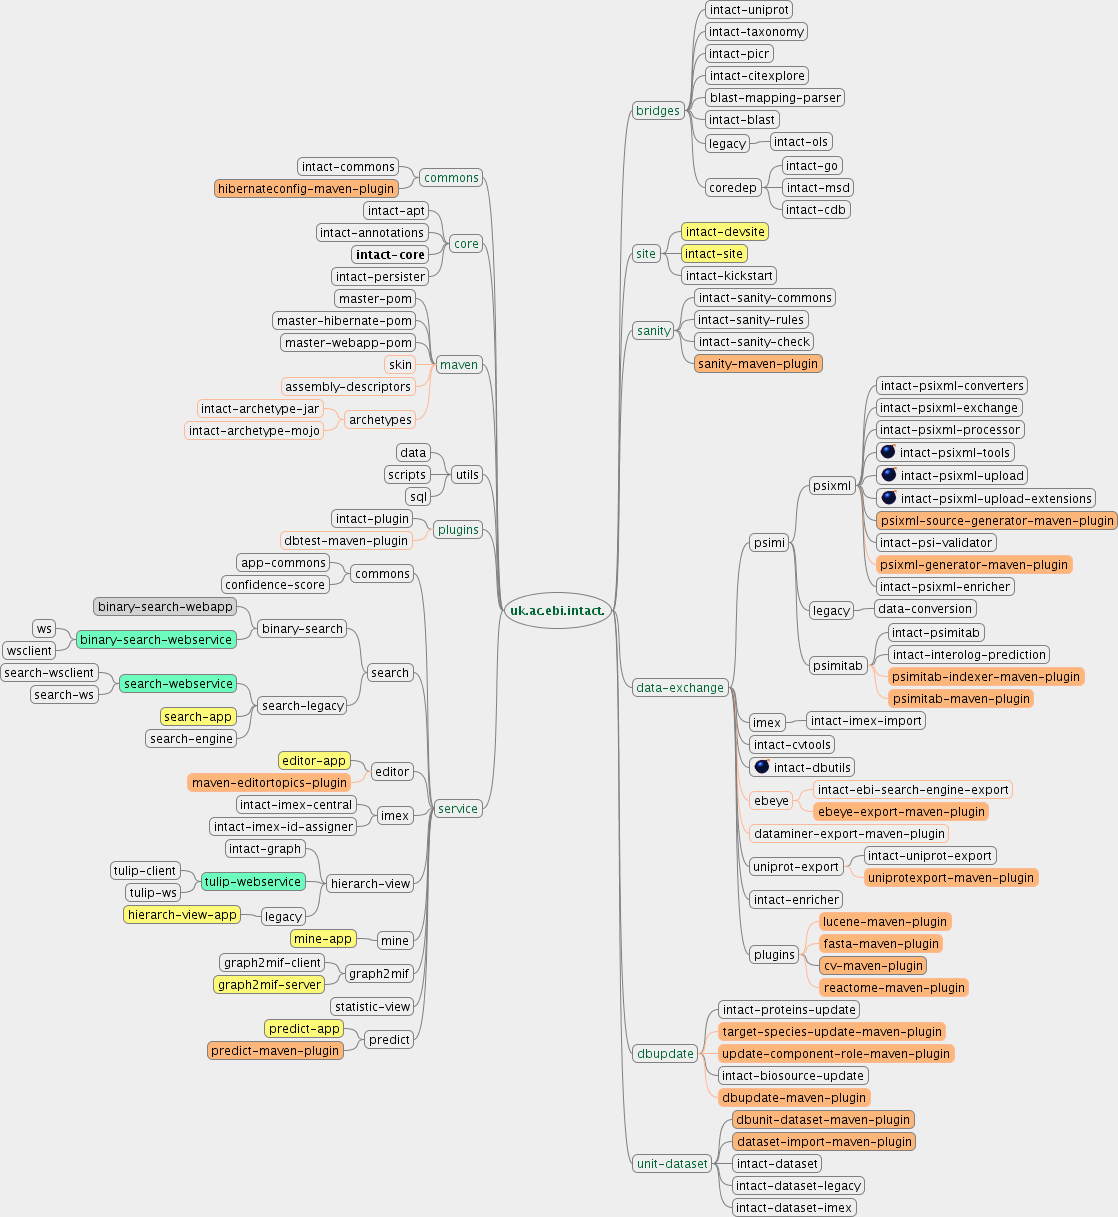
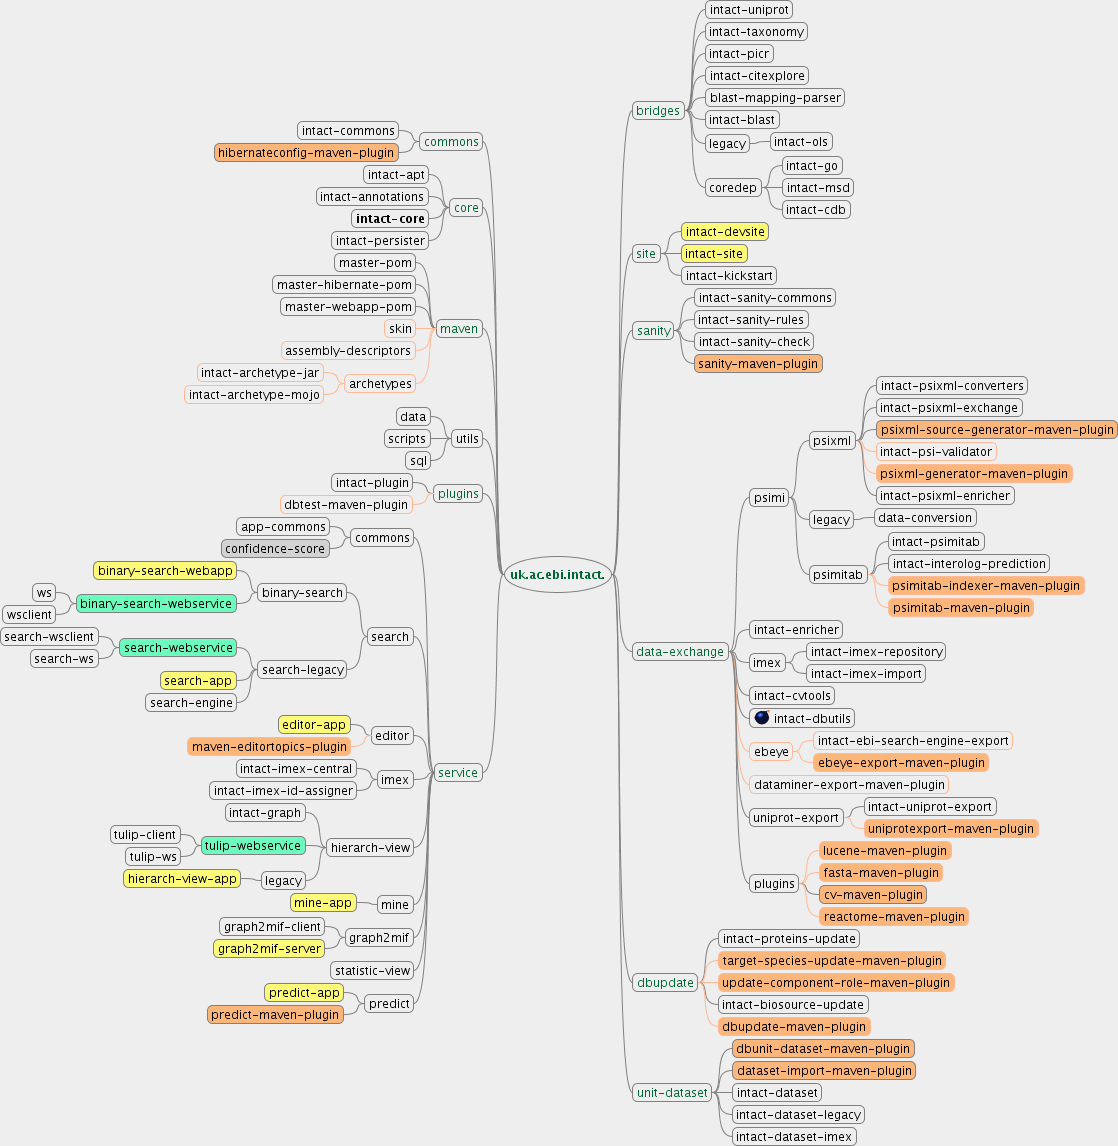
Updated mind map

Changed region(s): [[0.5474, 0.0, 1.0, 1.0], [0.0, 0.0916, 0.4562, 0.9162], [0.4562, 0.4887, 0.5474, 0.5192]]

diff --git a/repo/current/intact-modules.mm b/repo/current/intact-modules.mm
@@ -73,18 +73,10 @@
 <font NAME="SansSerif" SIZE="12"/>
 <node CREATED="1181220016126" ID="Freemind_Link_339196956" MODIFIED="1181231030330" TEXT="intact-psixml-converters"/>
 <node CREATED="1181220019649" ID="Freemind_Link_1793249273" MODIFIED="1181231030328" TEXT="intact-psixml-exchange"/>
-<node CREATED="1181220025324" ID="Freemind_Link_1813445305" MODIFIED="1181231030325" TEXT="intact-psixml-processor"/>
-<node CREATED="1181220028507" ID="Freemind_Link_313334292" MODIFIED="1185889434714" TEXT="intact-psixml-tools">
-<icon BUILTIN="clanbomber"/>
-</node>
-<node CREATED="1181220030659" ID="Freemind_Link_1907791552" MODIFIED="1185889439938" TEXT="intact-psixml-upload">
-<icon BUILTIN="clanbomber"/>
-</node>
-<node CREATED="1181220032989" ID="Freemind_Link_460551093" MODIFIED="1185889443513" TEXT="intact-psixml-upload-extensions">
-<icon BUILTIN="clanbomber"/>
-</node>
 <node BACKGROUND_COLOR="#fdb679" CREATED="1181219997687" ID="_" MODIFIED="1181231461388" TEXT="psixml-source-generator-maven-plugin&#xa;"/>
-<node CREATED="1181220210838" ID="Freemind_Link_692197070" MODIFIED="1185889421767" TEXT="intact-psi-validator"/>
+<node CREATED="1181220210838" ID="Freemind_Link_692197070" MODIFIED="1192434565745" TEXT="intact-psi-validator">
+<edge COLOR="#ffb894" WIDTH="thin"/>
+</node>
 <node BACKGROUND_COLOR="#fdb679" CREATED="1181220161503" ID="Freemind_Link_165922696" MODIFIED="1181307055010" TEXT="psixml-generator-maven-plugin">
 <edge COLOR="#ffb894" WIDTH="thin"/>
 </node>
@@ -111,7 +103,9 @@
 </node>
 </node>
 </node>
+<node CREATED="1184577886167" ID="Freemind_Link_1681646863" MODIFIED="1184577921153" TEXT="intact-enricher"/>
 <node CREATED="1185793253542" ID="Freemind_Link_1906959819" MODIFIED="1185793256230" TEXT="imex">
+<node CREATED="1192434624315" ID="Freemind_Link_750236080" MODIFIED="1192434631126" TEXT="intact-imex-repository"/>
 <node CREATED="1185793304604" ID="Freemind_Link_63970314" MODIFIED="1185793309097" TEXT="intact-imex-import"/>
 </node>
 <node CREATED="1184857829203" ID="Freemind_Link_1592349400" MODIFIED="1184857834229" TEXT="intact-cvtools"/>
@@ -145,7 +139,6 @@
 <font NAME="SansSerif" SIZE="12"/>
 </node>
 </node>
-<node CREATED="1184577886167" ID="Freemind_Link_1681646863" MODIFIED="1184577921153" TEXT="intact-enricher"/>
 <node CREATED="1181554401954" ID="Freemind_Link_1094858423" MODIFIED="1181554405395" TEXT="plugins">
 <node BACKGROUND_COLOR="#fdb679" CREATED="1181220145843" ID="Freemind_Link_740683974" MODIFIED="1181307035242" TEXT="lucene-maven-plugin">
 <edge COLOR="#ffb894" WIDTH="thin"/>
